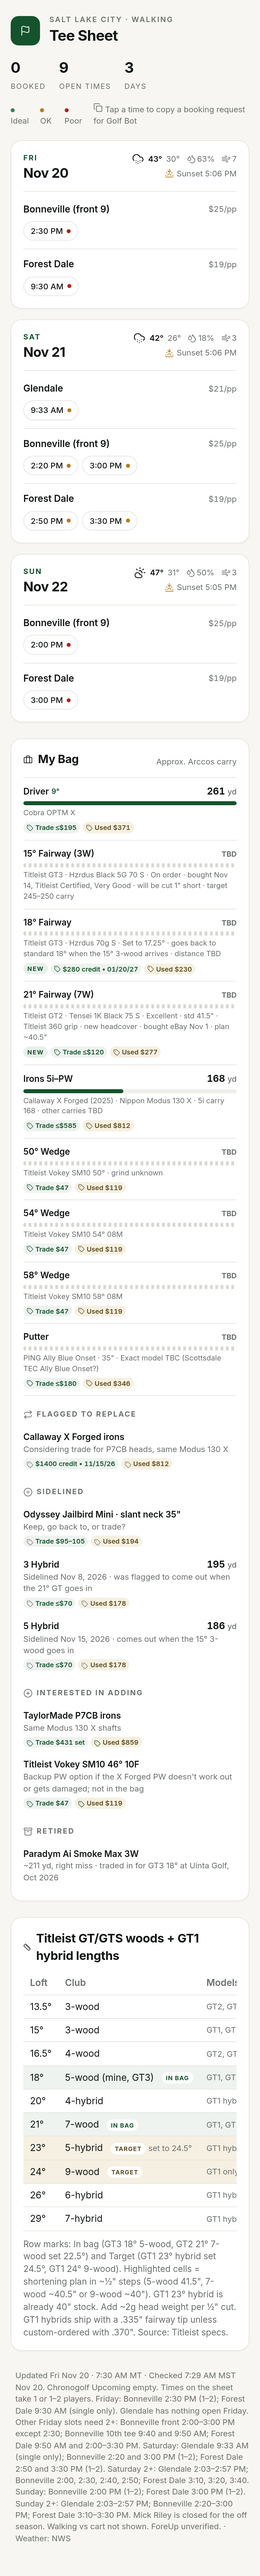
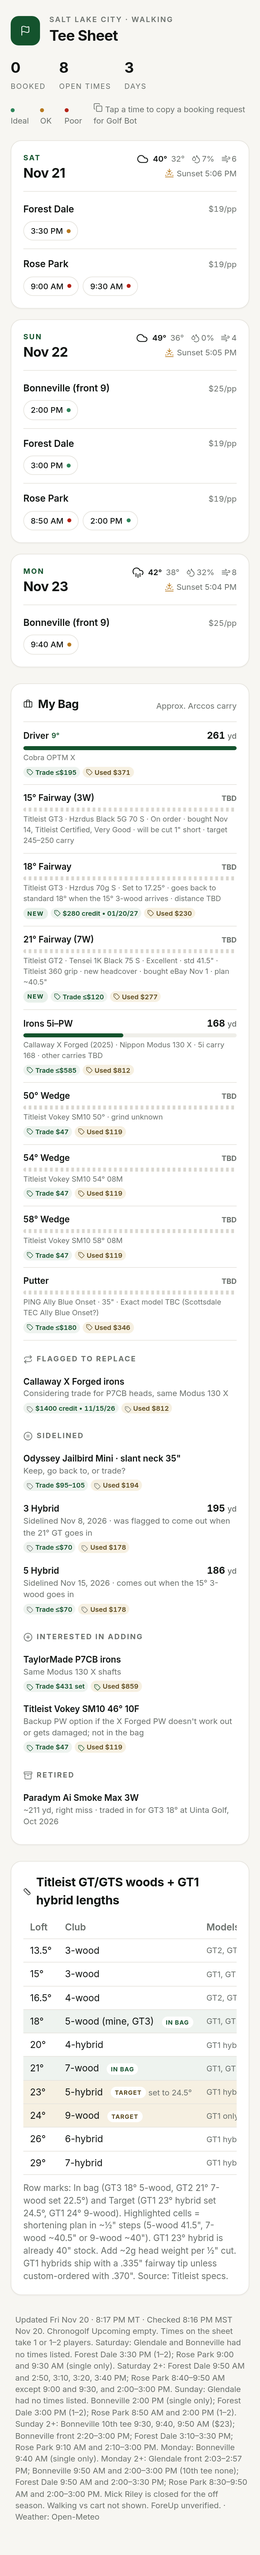
Update schedule 2026-11-20 20:17 MT

diff --git a/index.html b/index.html
@@ -47,10 +47,10 @@ ul{list-style:none;margin:0;padding:0}.ladder{border-top:1px solid var(--ln)}
 @media(max-width:560px){.wrap{padding:22px 16px 48px}h1{font-size:22px}.stats{gap:20px}.grid{grid-template-columns:1fr}}
 </style></head><body><div class="wrap">
 <div class="top"><div class="brand"><div class="logo"><i data-lucide="flag" class="ic "></i></div><div><div class="eyebrow">Salt Lake City · Walking</div><h1>Tee Sheet</h1></div></div>
-<div class="stats"><div class="stat"><b>0</b><span>Booked</span></div><div class="stat"><b>9</b><span>Open times</span></div><div class="stat"><b>3</b><span>Days</span></div></div></div>
+<div class="stats"><div class="stat"><b>0</b><span>Booked</span></div><div class="stat"><b>8</b><span>Open times</span></div><div class="stat"><b>3</b><span>Days</span></div></div></div>
 <div class="legend"><span><i class="dot ideal"></i>Ideal</span><span><i class="dot ok"></i>OK</span><span><i class="dot poor"></i>Poor</span><span><i data-lucide="copy" class="ic s"></i> Tap a time to copy a booking request for Golf Bot</span></div>
-<div class="layout"><div class="grid"><section class="card day"><header><div><div class="dow">Fri</div><div class="dt">Nov 20</div></div><div class="wxc"><div class="sum" title="🌨 Snow (7a–7p)"><i data-lucide="cloud-snow" class="ic "></i><span class="hi">43°</span><span class="lo">30°</span><span class="m"><i data-lucide="droplets" class="ic s"></i>63%</span><span class="m"><i data-lucide="wind" class="ic s"></i>7</span></div><div class="sun"><i data-lucide="sunset" class="ic s"></i>Sunset 5:06 PM</div></div></header><div class="crs"><div class="row"><span class="cn">Bonneville (front 9)</span><span class="pr">$25/pp</span></div><div class="tts"><button class="tt poor" data-msg="Book Bonneville (front 9) Fri Nov 20 2:30 PM" title="🌨 Snow · 43°F · 63% precip · 7 mph · tap to copy booking request" aria-label="Copy: Book Bonneville (front 9) Fri Nov 20 2:30 PM" onclick="cp(this)"><span>2:30 PM</span><i class="dot"></i></button></div></div><div class="crs"><div class="row"><span class="cn">Forest Dale</span><span class="pr">$19/pp</span></div><div class="tts"><button class="tt poor" data-msg="Book Forest Dale Fri Nov 20 9:30 AM" title="🌨 Snow · 43°F · 63% precip · 7 mph · tap to copy booking request" aria-label="Copy: Book Forest Dale Fri Nov 20 9:30 AM" onclick="cp(this)"><span>9:30 AM</span><i class="dot"></i></button></div></div></section><section class="card day"><header><div><div class="dow">Sat</div><div class="dt">Nov 21</div></div><div class="wxc"><div class="sum" title="🌨 Snow (7a–7p)"><i data-lucide="cloud-snow" class="ic "></i><span class="hi">42°</span><span class="lo">26°</span><span class="m"><i data-lucide="droplets" class="ic s"></i>18%</span><span class="m"><i data-lucide="wind" class="ic s"></i>3</span></div><div class="sun"><i data-lucide="sunset" class="ic s"></i>Sunset 5:06 PM</div></div></header><div class="crs"><div class="row"><span class="cn">Glendale</span><span class="pr">$21/pp</span></div><div class="tts"><button class="tt ok" data-msg="Book Glendale Sat Nov 21 9:33 AM" title="🌨 Snow · 42°F · 18% precip · 3 mph · tap to copy booking request" aria-label="Copy: Book Glendale Sat Nov 21 9:33 AM" onclick="cp(this)"><span>9:33 AM</span><i class="dot"></i></button></div></div><div class="crs"><div class="row"><span class="cn">Bonneville (front 9)</span><span class="pr">$25/pp</span></div><div class="tts"><button class="tt ok" data-msg="Book Bonneville (front 9) Sat Nov 21 2:20 PM" title="🌨 Snow · 42°F · 18% precip · 3 mph · tap to copy booking request" aria-label="Copy: Book Bonneville (front 9) Sat Nov 21 2:20 PM" onclick="cp(this)"><span>2:20 PM</span><i class="dot"></i></button><button class="tt ok" data-msg="Book Bonneville (front 9) Sat Nov 21 3:00 PM" title="🌨 Snow · 42°F · 18% precip · 3 mph · tap to copy booking request" aria-label="Copy: Book Bonneville (front 9) Sat Nov 21 3:00 PM" onclick="cp(this)"><span>3:00 PM</span><i class="dot"></i></button></div></div><div class="crs"><div class="row"><span class="cn">Forest Dale</span><span class="pr">$19/pp</span></div><div class="tts"><button class="tt ok" data-msg="Book Forest Dale Sat Nov 21 2:50 PM" title="🌨 Snow · 42°F · 18% precip · 3 mph · tap to copy booking request" aria-label="Copy: Book Forest Dale Sat Nov 21 2:50 PM" onclick="cp(this)"><span>2:50 PM</span><i class="dot"></i></button><button class="tt ok" data-msg="Book Forest Dale Sat Nov 21 3:30 PM" title="🌨 Snow · 42°F · 18% precip · 3 mph · tap to copy booking request" aria-label="Copy: Book Forest Dale Sat Nov 21 3:30 PM" onclick="cp(this)"><span>3:30 PM</span><i class="dot"></i></button></div></div></section><section class="card day"><header><div><div class="dow">Sun</div><div class="dt">Nov 22</div></div><div class="wxc"><div class="sum" title="⛅ Partly cloudy (7a–7p)"><i data-lucide="cloud-sun" class="ic "></i><span class="hi">47°</span><span class="lo">31°</span><span class="m"><i data-lucide="droplets" class="ic s"></i>50%</span><span class="m"><i data-lucide="wind" class="ic s"></i>3</span></div><div class="sun"><i data-lucide="sunset" class="ic s"></i>Sunset 5:05 PM</div></div></header><div class="crs"><div class="row"><span class="cn">Bonneville (front 9)</span><span class="pr">$25/pp</span></div><div class="tts"><button class="tt poor" data-msg="Book Bonneville (front 9) Sun Nov 22 2:00 PM" title="⛅ Partly cloudy · 47°F · 50% precip · 3 mph · tap to copy booking request" aria-label="Copy: Book Bonneville (front 9) Sun Nov 22 2:00 PM" onclick="cp(this)"><span>2:00 PM</span><i class="dot"></i></button></div></div><div class="crs"><div class="row"><span class="cn">Forest Dale</span><span class="pr">$19/pp</span></div><div class="tts"><button class="tt poor" data-msg="Book Forest Dale Sun Nov 22 3:00 PM" title="⛅ Partly cloudy · 47°F · 50% precip · 3 mph · tap to copy booking request" aria-label="Copy: Book Forest Dale Sun Nov 22 3:00 PM" onclick="cp(this)"><span>3:00 PM</span><i class="dot"></i></button></div></div></section></div><section class="card bag"><header><h2><i data-lucide="briefcase" class="ic s"></i>My Bag</h2><span class="muted">Approx. Arccos carry</span></header><ul class="ladder"><li class="lad"><div class="l1"><div class="cname">Driver <small>9°</small></div><div class="yd">261 <small>yd</small></div></div><div class="bar"><span style="width:100%"></span></div><div class="muted">Cobra OPTM X</div><div class=bdg><span class="val" title="On in Two trade-in (up-to ceiling) · Cobra OPTM X driver · 2026-11-16"><i data-lucide="tag" class="ic xs"></i>Trade ≤$195</span><span class="val used" title="2nd Swing used OPTM X Stiff: 9° Mint $379.99 (Kai&#x27;li White 60), 10.5° Above Average $362.99 · 2026-11-02"><i data-lucide="tag" class="ic xs"></i>Used $371</span></div></li><li class="lad"><div class="l1"><div class="cname">15° Fairway (3W)</div><div class="yd muted">TBD</div></div><div class="bar tbd"><span></span></div><div class="muted">Titleist GT3 · Hzrdus Black 5G 70 S · On order · bought Nov 14, Titleist Certified, Very Good · will be cut 1&quot; short · target 245–250 carry</div></li><li class="lad"><div class="l1"><div class="cname">18° Fairway</div><div class="yd muted">TBD</div></div><div class="bar tbd"><span></span></div><div class="muted">Titleist GT3 · Hzrdus 70g S · Set to 17.25° · goes back to standard 18° when the 15° 3-wood arrives · distance TBD</div><div class=bdg><span class="pill sm">New</span><span class="val" title="Uinta Golf 90-day guarantee, bought Oct 22, 2026 · 2026-10-22"><i data-lucide="tag" class="ic xs"></i>$280 credit • 01/20/27</span><span class="val used" title="Global Golf used GT3 fairway Excellent $229.99; eBay sold GT3 18° 5W median $231 (Teeworth, 90 days) · 2026-10-26"><i data-lucide="tag" class="ic xs"></i>Used $230</span></div></li><li class="lad"><div class="l1"><div class="cname">21° Fairway (7W)</div><div class="yd muted">TBD</div></div><div class="bar tbd"><span></span></div><div class="muted">Titleist GT2 · Tensei 1K Black 75 S · Excellent · std 41.5&quot; · Titleist 360 grip · new headcover · bought eBay Nov 1 · plan ~40.5&quot;</div><div class=bdg><span class="pill sm">New</span><span class="val" title="On in Two trade-in (up-to ceiling, excellent) · Titleist GT2 fairway · 2026-11-16"><i data-lucide="tag" class="ic xs"></i>Trade ≤$120</span><span class="val used" title="Avg of Global Golf GT2 Very Good $264.99 and Next Round GT2 Excellent $289.99; eBay sold median $200 (45 sales, Face Value Golf) · 2026-10-26"><i data-lucide="tag" class="ic xs"></i>Used $277</span></div></li><li class="lad"><div class="l1"><div class="cname">Irons 5i–PW</div><div class="yd">168 <small>yd</small></div></div><div class="bar"><span style="width:47%"></span></div><div class="muted">Callaway X Forged (2025) · Nippon Modus 130 X · 5i carry 168 · other carries TBD</div><div class=bdg><span class="val" title="On in Two trade-in (up-to ceiling) · Callaway 2025 X Forged iron set; set composition/shaft not specified, so 5i–PW offer may differ · 2026-11-16"><i data-lucide="tag" class="ic xs"></i>Trade ≤$585</span><span class="val used" title="FairwayWire eBay sold avg, X Forged 2025 set (18 sales, mostly 4-PW, mixed shafts); Excellent/Very Good sales $986–$1,200 · 2026-10-26"><i data-lucide="tag" class="ic xs"></i>Used $812</span></div></li><li class="lad"><div class="l1"><div class="cname">50° Wedge</div><div class="yd muted">TBD</div></div><div class="bar tbd"><span></span></div><div class="muted">Titleist Vokey SM10 50° · grind unknown</div><div class=bdg><span class="val" title="2nd Swing store credit via Face Value Golf (SM10 family, avg cond., checked Nov 14); best cash $45–47 · 2026-11-16"><i data-lucide="tag" class="ic xs"></i>Trade $47</span><span class="val used" title="Titleist Certified Pre-Owned SM10 Excellent $119 · 2026-10-26"><i data-lucide="tag" class="ic xs"></i>Used $119</span></div></li><li class="lad"><div class="l1"><div class="cname">54° Wedge</div><div class="yd muted">TBD</div></div><div class="bar tbd"><span></span></div><div class="muted">Titleist Vokey SM10 54° 08M</div><div class=bdg><span class="val" title="2nd Swing store credit via Face Value Golf (SM10 family, avg cond., checked Nov 14); best cash $45–47 · 2026-11-16"><i data-lucide="tag" class="ic xs"></i>Trade $47</span><span class="val used" title="Titleist Certified Pre-Owned SM10 Excellent $119 · 2026-10-26"><i data-lucide="tag" class="ic xs"></i>Used $119</span></div></li><li class="lad"><div class="l1"><div class="cname">58° Wedge</div><div class="yd muted">TBD</div></div><div class="bar tbd"><span></span></div><div class="muted">Titleist Vokey SM10 58° 08M</div><div class=bdg><span class="val" title="2nd Swing store credit via Face Value Golf (SM10 family, avg cond., checked Nov 14); best cash $45–47 · 2026-11-16"><i data-lucide="tag" class="ic xs"></i>Trade $47</span><span class="val used" title="Titleist Certified Pre-Owned SM10 Excellent $119 · 2026-10-26"><i data-lucide="tag" class="ic xs"></i>Used $119</span></div></li><li class="lad"><div class="l1"><div class="cname">Putter</div><div class="yd muted">TBD</div></div><div class="bar tbd"><span></span></div><div class="muted">PING Ally Blue Onset · 35&quot; · Exact model TBC (Scottsdale TEC Ally Blue Onset?)</div><div class=bdg><span class="val" title="On in Two trade-in (up-to ceiling) · Scottsdale TEC Ally Blue Onset; PLD SE Ally Blue 4 Onset $185 · 2026-11-16"><i data-lucide="tag" class="ic xs"></i>Trade ≤$180</span><span class="val used" title="ClubChecks used target, Scottsdale TEC Ally Blue Onset; Carl&#x27;s Golfland 35&quot; Very Good $349.99 · 2026-10-26"><i data-lucide="tag" class="ic xs"></i>Used $346</span></div></li></ul><div class="subs"><div class="sub"><h3><i data-lucide="repeat" class="ic s"></i>Flagged to replace</h3><ul class="lst replace"><li><div class="it"><div class="l1"><div class="cname">Callaway X Forged irons</div></div><div class="muted">Considering trade for P7CB heads, same Modus 130 X</div><div class=bdg><span class="val" title="Jason: trade-in guarantee value, trade by Nov 15, 2026 (deadline approx., per Jason) · 2026-10-26"><i data-lucide="tag" class="ic xs"></i>$1400 credit • 11/15/26</span><span class="val used" title="FairwayWire eBay sold avg, X Forged 2025 set (18 sales, mostly 4-PW, mixed shafts); Excellent/Very Good sales $986–$1,200 · 2026-10-26"><i data-lucide="tag" class="ic xs"></i>Used $812</span></div></div></li></ul></div><div class="sub"><h3><i data-lucide="pause-circle" class="ic s"></i>Sidelined</h3><ul class="lst sidelined"><li><div class="it"><div class="l1"><div class="cname">Odyssey Jailbird Mini · slant neck 35&quot;</div></div><div class="muted">Keep, go back to, or trade?</div><div class=bdg><span class="val" title="On in Two trade-in ceilings: Ai-ONE Jailbird Mini S $95 – Ai-DUAL Jailbird Mini $105 (exact version TBC) · 2026-11-16"><i data-lucide="tag" class="ic xs"></i>Trade $95–105</span><span class="val used" title="Golf Club Index avg sold, Odyssey Ai-ONE Jailbird Mini (exact version TBC) · 2026-10-26"><i data-lucide="tag" class="ic xs"></i>Used $194</span></div></div></li><li><div class="it"><div class="l1"><div class="cname">3 Hybrid</div><div class=yd>195 <small>yd</small></div></div><div class="muted">Sidelined Nov 8, 2026 · was flagged to come out when the 21° GT goes in</div><div class=bdg><span class="val" title="On in Two trade-in (up-to ceiling) · 2026-11-16"><i data-lucide="tag" class="ic xs"></i>Trade ≤$70</span><span class="val used" title="Face Value Golf typical used asking, Paradym Super hybrid Above Average grade (Callaway Pre-Owned from $120 Avg) · 2026-10-26"><i data-lucide="tag" class="ic xs"></i>Used $178</span></div></div></li><li><div class="it"><div class="l1"><div class="cname">5 Hybrid</div><div class=yd>186 <small>yd</small></div></div><div class="muted">Sidelined Nov 15, 2026 · comes out when the 15° 3-wood goes in</div><div class=bdg><span class="val" title="On in Two trade-in (up-to ceiling) · 2026-11-16"><i data-lucide="tag" class="ic xs"></i>Trade ≤$70</span><span class="val used" title="Face Value Golf typical used asking, Paradym Super hybrid Above Average grade (Callaway Pre-Owned from $120 Avg) · 2026-10-26"><i data-lucide="tag" class="ic xs"></i>Used $178</span></div></div></li></ul></div><div class="sub"><h3><i data-lucide="plus-circle" class="ic s"></i>Interested in adding</h3><ul class="lst add"><li><div class="it"><div class="l1"><div class="cname">TaylorMade P7CB irons</div></div><div class="muted">Same Modus 130 X shafts</div><div class=bdg><span class="val" title="Face Value Golf: best cash offer, iGolf Value Guide, 7-club set, Average ($61.50/club), checked Oct 11 · 2026-10-26"><i data-lucide="tag" class="ic xs"></i>Trade $431 set</span><span class="val used" title="Face Value Golf typical used asking, 7-club set, median of 44 listings (Average or better), checked Oct 11; Global Golf Average 4-PW $760 · 2026-10-26"><i data-lucide="tag" class="ic xs"></i>Used $859</span></div></div></li><li><div class="it"><div class="l1"><div class="cname">Titleist Vokey SM10 46° 10F</div></div><div class="muted">Backup PW option if the X Forged PW doesn&#x27;t work out or gets damaged; not in the bag</div><div class=bdg><span class="val" title="2nd Swing store credit via Face Value Golf (SM10 family, avg cond.) · 2026-10-23"><i data-lucide="tag" class="ic xs"></i>Trade $47</span><span class="val used" title="Titleist Certified Pre-Owned SM10 Excellent $119 · 2026-10-26"><i data-lucide="tag" class="ic xs"></i>Used $119</span></div></div></li></ul></div><div class="sub"><h3><i data-lucide="archive" class="ic s"></i>Retired</h3><ul class="lst retired"><li><div class="it"><div class="l1"><div class="cname">Paradym Ai Smoke Max 3W</div></div><div class="muted">~211 yd, right miss · traded in for GT3 18° at Uinta Golf, Oct 2026</div></div></li></ul></div></div></section></div><section class="card lenchart"><header><h2><i data-lucide="ruler" class="ic s"></i>Titleist GT/GTS woods + GT1 hybrid lengths</h2></header><div class="tw"><table><thead><tr><th>Loft</th><th>Club</th><th>Models</th><th>Std</th><th>−½"</th><th>−1"</th></tr></thead><tbody><tr><td>13.5°</td><td>3-wood</td><td class="muted">GT2, GTS2</td><td>43"</td><td>42.5"</td><td>42"</td></tr><tr><td>15°</td><td>3-wood</td><td class="muted">GT1, GT2, GT3, GTS</td><td>43"</td><td>42.5"</td><td>42"</td></tr><tr><td>16.5°</td><td>4-wood</td><td class="muted">GT2, GT3, GTS</td><td>43"</td><td>42.5"</td><td>42"</td></tr><tr class="inbag"><td>18°</td><td>5-wood (mine, GT3) <span class="mtag">In bag</span></td><td class="muted">GT1, GT2, GT3, GTS</td><td>42"</td><td class=hl>41.5"</td><td>41"</td></tr><tr><td>20°</td><td>4-hybrid</td><td class="muted">GT1 hybrid</td><td>40.5"</td><td>40"</td><td>39.5"</td></tr><tr class="inbag"><td>21°</td><td>7-wood <span class="mtag">In bag</span></td><td class="muted">GT1, GT2, GTS</td><td>41.5"</td><td>41"</td><td class=hl>40.5"</td></tr><tr class="target"><td>23°</td><td>5-hybrid <span class="mtag">Target</span> <span class="muted">set to 24.5°</span></td><td class="muted">GT1 hybrid</td><td>40"</td><td>39.5"</td><td>39"</td></tr><tr class="target"><td>24°</td><td>9-wood <span class="mtag">Target</span></td><td class="muted">GT1 only</td><td>41"</td><td>40.5"</td><td class=hl>40"</td></tr><tr><td>26°</td><td>6-hybrid</td><td class="muted">GT1 hybrid</td><td>39.5"</td><td>39"</td><td>38.5"</td></tr><tr><td>29°</td><td>7-hybrid</td><td class="muted">GT1 hybrid</td><td>39"</td><td>38.5"</td><td>38"</td></tr></tbody></table></div><p class="muted">Row marks: In bag (GT3 18° 5-wood, GT2 21° 7-wood set 22.5°) and Target (GT1 23° hybrid set 24.5°, GT1 24° 9-wood). Highlighted cells = shortening plan in ~½" steps (5-wood 41.5", 7-wood ~40.5" or 9-wood ~40"). GT1 23° hybrid is already 40" stock. Add ~2g head weight per ½" cut. GT1 hybrids ship with a .335" fairway tip unless custom-ordered with .370". Source: Titleist specs.</p></section>
-<div class="foot"><i data-lucide="refresh-cw" class="ic s"></i>Updated Fri Nov 20 · 7:30 AM MT · Checked 7:29 AM MST Nov 20. Chronogolf Upcoming empty. Times on the sheet take 1 or 1–2 players. Friday: Bonneville 2:30 PM (1–2); Forest Dale 9:30 AM (single only). Glendale has nothing open Friday. Other Friday slots need 2+: Bonneville front 2:00–3:00 PM except 2:30; Bonneville 10th tee 9:40 and 9:50 AM; Forest Dale 9:50 AM and 2:00–3:30 PM. Saturday: Glendale 9:33 AM (single only); Bonneville 2:20 and 3:00 PM (1–2); Forest Dale 2:50 and 3:30 PM (1–2). Saturday 2+: Glendale 2:03–2:57 PM; Bonneville 2:00, 2:30, 2:40, 2:50; Forest Dale 3:10, 3:20, 3:40. Sunday: Bonneville 2:00 PM (1–2); Forest Dale 3:00 PM (1–2). Sunday 2+: Glendale 2:03–2:57 PM; Bonneville 2:20–3:00 PM; Forest Dale 3:10–3:30 PM. Mick Riley is closed for the off season. Walking vs cart not shown. ForeUp unverified. · Weather: NWS</div></div>
+<div class="layout"><div class="grid"><section class="card day"><header><div><div class="dow">Sat</div><div class="dt">Nov 21</div></div><div class="wxc"><div class="sum" title="☁ Overcast (7a–7p)"><i data-lucide="cloud" class="ic "></i><span class="hi">40°</span><span class="lo">32°</span><span class="m"><i data-lucide="droplets" class="ic s"></i>7%</span><span class="m"><i data-lucide="wind" class="ic s"></i>6</span></div><div class="sun"><i data-lucide="sunset" class="ic s"></i>Sunset 5:06 PM</div></div></header><div class="crs"><div class="row"><span class="cn">Forest Dale</span><span class="pr">$19/pp</span></div><div class="tts"><button class="tt ok" data-msg="Book Forest Dale Sat Nov 21 3:30 PM" title="☁ Overcast · 40°F · 1% precip · 3 mph · tap to copy booking request" aria-label="Copy: Book Forest Dale Sat Nov 21 3:30 PM" onclick="cp(this)"><span>3:30 PM</span><i class="dot"></i></button></div></div><div class="crs"><div class="row"><span class="cn">Rose Park</span><span class="pr">$19/pp</span></div><div class="tts"><button class="tt poor" data-msg="Book Rose Park Sat Nov 21 9:00 AM" title="☁ Overcast · 35°F · 4% precip · 4 mph · tap to copy booking request" aria-label="Copy: Book Rose Park Sat Nov 21 9:00 AM" onclick="cp(this)"><span>9:00 AM</span><i class="dot"></i></button><button class="tt poor" data-msg="Book Rose Park Sat Nov 21 9:30 AM" title="☁ Overcast · 35°F · 4% precip · 4 mph · tap to copy booking request" aria-label="Copy: Book Rose Park Sat Nov 21 9:30 AM" onclick="cp(this)"><span>9:30 AM</span><i class="dot"></i></button></div></div></section><section class="card day"><header><div><div class="dow">Sun</div><div class="dt">Nov 22</div></div><div class="wxc"><div class="sum" title="☁ Overcast (7a–7p)"><i data-lucide="cloud" class="ic "></i><span class="hi">49°</span><span class="lo">36°</span><span class="m"><i data-lucide="droplets" class="ic s"></i>0%</span><span class="m"><i data-lucide="wind" class="ic s"></i>4</span></div><div class="sun"><i data-lucide="sunset" class="ic s"></i>Sunset 5:05 PM</div></div></header><div class="crs"><div class="row"><span class="cn">Bonneville (front 9)</span><span class="pr">$25/pp</span></div><div class="tts"><button class="tt ideal" data-msg="Book Bonneville (front 9) Sun Nov 22 2:00 PM" title="☁ Overcast · 49°F · 0% precip · 4 mph · tap to copy booking request" aria-label="Copy: Book Bonneville (front 9) Sun Nov 22 2:00 PM" onclick="cp(this)"><span>2:00 PM</span><i class="dot"></i></button></div></div><div class="crs"><div class="row"><span class="cn">Forest Dale</span><span class="pr">$19/pp</span></div><div class="tts"><button class="tt ideal" data-msg="Book Forest Dale Sun Nov 22 3:00 PM" title="☁ Overcast · 48°F · 0% precip · 4 mph · tap to copy booking request" aria-label="Copy: Book Forest Dale Sun Nov 22 3:00 PM" onclick="cp(this)"><span>3:00 PM</span><i class="dot"></i></button></div></div><div class="crs"><div class="row"><span class="cn">Rose Park</span><span class="pr">$19/pp</span></div><div class="tts"><button class="tt poor" data-msg="Book Rose Park Sun Nov 22 8:50 AM" title="☁ Overcast · 36°F · 0% precip · 3 mph · tap to copy booking request" aria-label="Copy: Book Rose Park Sun Nov 22 8:50 AM" onclick="cp(this)"><span>8:50 AM</span><i class="dot"></i></button><button class="tt ideal" data-msg="Book Rose Park Sun Nov 22 2:00 PM" title="☁ Overcast · 49°F · 0% precip · 4 mph · tap to copy booking request" aria-label="Copy: Book Rose Park Sun Nov 22 2:00 PM" onclick="cp(this)"><span>2:00 PM</span><i class="dot"></i></button></div></div></section><section class="card day"><header><div><div class="dow">Mon</div><div class="dt">Nov 23</div></div><div class="wxc"><div class="sum" title="🌦 Drizzle (7a–7p)"><i data-lucide="cloud-rain" class="ic "></i><span class="hi">42°</span><span class="lo">38°</span><span class="m"><i data-lucide="droplets" class="ic s"></i>32%</span><span class="m"><i data-lucide="wind" class="ic s"></i>8</span></div><div class="sun"><i data-lucide="sunset" class="ic s"></i>Sunset 5:04 PM</div></div></header><div class="crs"><div class="row"><span class="cn">Bonneville (front 9)</span><span class="pr">$25/pp</span></div><div class="tts"><button class="tt ok" data-msg="Book Bonneville (front 9) Mon Nov 23 9:40 AM" title="🌦 Drizzle · 38°F · 16% precip · 4 mph · tap to copy booking request" aria-label="Copy: Book Bonneville (front 9) Mon Nov 23 9:40 AM" onclick="cp(this)"><span>9:40 AM</span><i class="dot"></i></button></div></div></section></div><section class="card bag"><header><h2><i data-lucide="briefcase" class="ic s"></i>My Bag</h2><span class="muted">Approx. Arccos carry</span></header><ul class="ladder"><li class="lad"><div class="l1"><div class="cname">Driver <small>9°</small></div><div class="yd">261 <small>yd</small></div></div><div class="bar"><span style="width:100%"></span></div><div class="muted">Cobra OPTM X</div><div class=bdg><span class="val" title="On in Two trade-in (up-to ceiling) · Cobra OPTM X driver · 2026-11-16"><i data-lucide="tag" class="ic xs"></i>Trade ≤$195</span><span class="val used" title="2nd Swing used OPTM X Stiff: 9° Mint $379.99 (Kai&#x27;li White 60), 10.5° Above Average $362.99 · 2026-11-02"><i data-lucide="tag" class="ic xs"></i>Used $371</span></div></li><li class="lad"><div class="l1"><div class="cname">15° Fairway (3W)</div><div class="yd muted">TBD</div></div><div class="bar tbd"><span></span></div><div class="muted">Titleist GT3 · Hzrdus Black 5G 70 S · On order · bought Nov 14, Titleist Certified, Very Good · will be cut 1&quot; short · target 245–250 carry</div></li><li class="lad"><div class="l1"><div class="cname">18° Fairway</div><div class="yd muted">TBD</div></div><div class="bar tbd"><span></span></div><div class="muted">Titleist GT3 · Hzrdus 70g S · Set to 17.25° · goes back to standard 18° when the 15° 3-wood arrives · distance TBD</div><div class=bdg><span class="pill sm">New</span><span class="val" title="Uinta Golf 90-day guarantee, bought Oct 22, 2026 · 2026-10-22"><i data-lucide="tag" class="ic xs"></i>$280 credit • 01/20/27</span><span class="val used" title="Global Golf used GT3 fairway Excellent $229.99; eBay sold GT3 18° 5W median $231 (Teeworth, 90 days) · 2026-10-26"><i data-lucide="tag" class="ic xs"></i>Used $230</span></div></li><li class="lad"><div class="l1"><div class="cname">21° Fairway (7W)</div><div class="yd muted">TBD</div></div><div class="bar tbd"><span></span></div><div class="muted">Titleist GT2 · Tensei 1K Black 75 S · Excellent · std 41.5&quot; · Titleist 360 grip · new headcover · bought eBay Nov 1 · plan ~40.5&quot;</div><div class=bdg><span class="pill sm">New</span><span class="val" title="On in Two trade-in (up-to ceiling, excellent) · Titleist GT2 fairway · 2026-11-16"><i data-lucide="tag" class="ic xs"></i>Trade ≤$120</span><span class="val used" title="Avg of Global Golf GT2 Very Good $264.99 and Next Round GT2 Excellent $289.99; eBay sold median $200 (45 sales, Face Value Golf) · 2026-10-26"><i data-lucide="tag" class="ic xs"></i>Used $277</span></div></li><li class="lad"><div class="l1"><div class="cname">Irons 5i–PW</div><div class="yd">168 <small>yd</small></div></div><div class="bar"><span style="width:47%"></span></div><div class="muted">Callaway X Forged (2025) · Nippon Modus 130 X · 5i carry 168 · other carries TBD</div><div class=bdg><span class="val" title="On in Two trade-in (up-to ceiling) · Callaway 2025 X Forged iron set; set composition/shaft not specified, so 5i–PW offer may differ · 2026-11-16"><i data-lucide="tag" class="ic xs"></i>Trade ≤$585</span><span class="val used" title="FairwayWire eBay sold avg, X Forged 2025 set (18 sales, mostly 4-PW, mixed shafts); Excellent/Very Good sales $986–$1,200 · 2026-10-26"><i data-lucide="tag" class="ic xs"></i>Used $812</span></div></li><li class="lad"><div class="l1"><div class="cname">50° Wedge</div><div class="yd muted">TBD</div></div><div class="bar tbd"><span></span></div><div class="muted">Titleist Vokey SM10 50° · grind unknown</div><div class=bdg><span class="val" title="2nd Swing store credit via Face Value Golf (SM10 family, avg cond., checked Nov 14); best cash $45–47 · 2026-11-16"><i data-lucide="tag" class="ic xs"></i>Trade $47</span><span class="val used" title="Titleist Certified Pre-Owned SM10 Excellent $119 · 2026-10-26"><i data-lucide="tag" class="ic xs"></i>Used $119</span></div></li><li class="lad"><div class="l1"><div class="cname">54° Wedge</div><div class="yd muted">TBD</div></div><div class="bar tbd"><span></span></div><div class="muted">Titleist Vokey SM10 54° 08M</div><div class=bdg><span class="val" title="2nd Swing store credit via Face Value Golf (SM10 family, avg cond., checked Nov 14); best cash $45–47 · 2026-11-16"><i data-lucide="tag" class="ic xs"></i>Trade $47</span><span class="val used" title="Titleist Certified Pre-Owned SM10 Excellent $119 · 2026-10-26"><i data-lucide="tag" class="ic xs"></i>Used $119</span></div></li><li class="lad"><div class="l1"><div class="cname">58° Wedge</div><div class="yd muted">TBD</div></div><div class="bar tbd"><span></span></div><div class="muted">Titleist Vokey SM10 58° 08M</div><div class=bdg><span class="val" title="2nd Swing store credit via Face Value Golf (SM10 family, avg cond., checked Nov 14); best cash $45–47 · 2026-11-16"><i data-lucide="tag" class="ic xs"></i>Trade $47</span><span class="val used" title="Titleist Certified Pre-Owned SM10 Excellent $119 · 2026-10-26"><i data-lucide="tag" class="ic xs"></i>Used $119</span></div></li><li class="lad"><div class="l1"><div class="cname">Putter</div><div class="yd muted">TBD</div></div><div class="bar tbd"><span></span></div><div class="muted">PING Ally Blue Onset · 35&quot; · Exact model TBC (Scottsdale TEC Ally Blue Onset?)</div><div class=bdg><span class="val" title="On in Two trade-in (up-to ceiling) · Scottsdale TEC Ally Blue Onset; PLD SE Ally Blue 4 Onset $185 · 2026-11-16"><i data-lucide="tag" class="ic xs"></i>Trade ≤$180</span><span class="val used" title="ClubChecks used target, Scottsdale TEC Ally Blue Onset; Carl&#x27;s Golfland 35&quot; Very Good $349.99 · 2026-10-26"><i data-lucide="tag" class="ic xs"></i>Used $346</span></div></li></ul><div class="subs"><div class="sub"><h3><i data-lucide="repeat" class="ic s"></i>Flagged to replace</h3><ul class="lst replace"><li><div class="it"><div class="l1"><div class="cname">Callaway X Forged irons</div></div><div class="muted">Considering trade for P7CB heads, same Modus 130 X</div><div class=bdg><span class="val" title="Jason: trade-in guarantee value, trade by Nov 15, 2026 (deadline approx., per Jason) · 2026-10-26"><i data-lucide="tag" class="ic xs"></i>$1400 credit • 11/15/26</span><span class="val used" title="FairwayWire eBay sold avg, X Forged 2025 set (18 sales, mostly 4-PW, mixed shafts); Excellent/Very Good sales $986–$1,200 · 2026-10-26"><i data-lucide="tag" class="ic xs"></i>Used $812</span></div></div></li></ul></div><div class="sub"><h3><i data-lucide="pause-circle" class="ic s"></i>Sidelined</h3><ul class="lst sidelined"><li><div class="it"><div class="l1"><div class="cname">Odyssey Jailbird Mini · slant neck 35&quot;</div></div><div class="muted">Keep, go back to, or trade?</div><div class=bdg><span class="val" title="On in Two trade-in ceilings: Ai-ONE Jailbird Mini S $95 – Ai-DUAL Jailbird Mini $105 (exact version TBC) · 2026-11-16"><i data-lucide="tag" class="ic xs"></i>Trade $95–105</span><span class="val used" title="Golf Club Index avg sold, Odyssey Ai-ONE Jailbird Mini (exact version TBC) · 2026-10-26"><i data-lucide="tag" class="ic xs"></i>Used $194</span></div></div></li><li><div class="it"><div class="l1"><div class="cname">3 Hybrid</div><div class=yd>195 <small>yd</small></div></div><div class="muted">Sidelined Nov 8, 2026 · was flagged to come out when the 21° GT goes in</div><div class=bdg><span class="val" title="On in Two trade-in (up-to ceiling) · 2026-11-16"><i data-lucide="tag" class="ic xs"></i>Trade ≤$70</span><span class="val used" title="Face Value Golf typical used asking, Paradym Super hybrid Above Average grade (Callaway Pre-Owned from $120 Avg) · 2026-10-26"><i data-lucide="tag" class="ic xs"></i>Used $178</span></div></div></li><li><div class="it"><div class="l1"><div class="cname">5 Hybrid</div><div class=yd>186 <small>yd</small></div></div><div class="muted">Sidelined Nov 15, 2026 · comes out when the 15° 3-wood goes in</div><div class=bdg><span class="val" title="On in Two trade-in (up-to ceiling) · 2026-11-16"><i data-lucide="tag" class="ic xs"></i>Trade ≤$70</span><span class="val used" title="Face Value Golf typical used asking, Paradym Super hybrid Above Average grade (Callaway Pre-Owned from $120 Avg) · 2026-10-26"><i data-lucide="tag" class="ic xs"></i>Used $178</span></div></div></li></ul></div><div class="sub"><h3><i data-lucide="plus-circle" class="ic s"></i>Interested in adding</h3><ul class="lst add"><li><div class="it"><div class="l1"><div class="cname">TaylorMade P7CB irons</div></div><div class="muted">Same Modus 130 X shafts</div><div class=bdg><span class="val" title="Face Value Golf: best cash offer, iGolf Value Guide, 7-club set, Average ($61.50/club), checked Oct 11 · 2026-10-26"><i data-lucide="tag" class="ic xs"></i>Trade $431 set</span><span class="val used" title="Face Value Golf typical used asking, 7-club set, median of 44 listings (Average or better), checked Oct 11; Global Golf Average 4-PW $760 · 2026-10-26"><i data-lucide="tag" class="ic xs"></i>Used $859</span></div></div></li><li><div class="it"><div class="l1"><div class="cname">Titleist Vokey SM10 46° 10F</div></div><div class="muted">Backup PW option if the X Forged PW doesn&#x27;t work out or gets damaged; not in the bag</div><div class=bdg><span class="val" title="2nd Swing store credit via Face Value Golf (SM10 family, avg cond.) · 2026-10-23"><i data-lucide="tag" class="ic xs"></i>Trade $47</span><span class="val used" title="Titleist Certified Pre-Owned SM10 Excellent $119 · 2026-10-26"><i data-lucide="tag" class="ic xs"></i>Used $119</span></div></div></li></ul></div><div class="sub"><h3><i data-lucide="archive" class="ic s"></i>Retired</h3><ul class="lst retired"><li><div class="it"><div class="l1"><div class="cname">Paradym Ai Smoke Max 3W</div></div><div class="muted">~211 yd, right miss · traded in for GT3 18° at Uinta Golf, Oct 2026</div></div></li></ul></div></div></section></div><section class="card lenchart"><header><h2><i data-lucide="ruler" class="ic s"></i>Titleist GT/GTS woods + GT1 hybrid lengths</h2></header><div class="tw"><table><thead><tr><th>Loft</th><th>Club</th><th>Models</th><th>Std</th><th>−½"</th><th>−1"</th></tr></thead><tbody><tr><td>13.5°</td><td>3-wood</td><td class="muted">GT2, GTS2</td><td>43"</td><td>42.5"</td><td>42"</td></tr><tr><td>15°</td><td>3-wood</td><td class="muted">GT1, GT2, GT3, GTS</td><td>43"</td><td>42.5"</td><td>42"</td></tr><tr><td>16.5°</td><td>4-wood</td><td class="muted">GT2, GT3, GTS</td><td>43"</td><td>42.5"</td><td>42"</td></tr><tr class="inbag"><td>18°</td><td>5-wood (mine, GT3) <span class="mtag">In bag</span></td><td class="muted">GT1, GT2, GT3, GTS</td><td>42"</td><td class=hl>41.5"</td><td>41"</td></tr><tr><td>20°</td><td>4-hybrid</td><td class="muted">GT1 hybrid</td><td>40.5"</td><td>40"</td><td>39.5"</td></tr><tr class="inbag"><td>21°</td><td>7-wood <span class="mtag">In bag</span></td><td class="muted">GT1, GT2, GTS</td><td>41.5"</td><td>41"</td><td class=hl>40.5"</td></tr><tr class="target"><td>23°</td><td>5-hybrid <span class="mtag">Target</span> <span class="muted">set to 24.5°</span></td><td class="muted">GT1 hybrid</td><td>40"</td><td>39.5"</td><td>39"</td></tr><tr class="target"><td>24°</td><td>9-wood <span class="mtag">Target</span></td><td class="muted">GT1 only</td><td>41"</td><td>40.5"</td><td class=hl>40"</td></tr><tr><td>26°</td><td>6-hybrid</td><td class="muted">GT1 hybrid</td><td>39.5"</td><td>39"</td><td>38.5"</td></tr><tr><td>29°</td><td>7-hybrid</td><td class="muted">GT1 hybrid</td><td>39"</td><td>38.5"</td><td>38"</td></tr></tbody></table></div><p class="muted">Row marks: In bag (GT3 18° 5-wood, GT2 21° 7-wood set 22.5°) and Target (GT1 23° hybrid set 24.5°, GT1 24° 9-wood). Highlighted cells = shortening plan in ~½" steps (5-wood 41.5", 7-wood ~40.5" or 9-wood ~40"). GT1 23° hybrid is already 40" stock. Add ~2g head weight per ½" cut. GT1 hybrids ship with a .335" fairway tip unless custom-ordered with .370". Source: Titleist specs.</p></section>
+<div class="foot"><i data-lucide="refresh-cw" class="ic s"></i>Updated Fri Nov 20 · 8:17 PM MT · Checked 8:16 PM MST Nov 20. Chronogolf Upcoming empty. Times on the sheet take 1 or 1–2 players. Saturday: Glendale and Bonneville had no times listed. Forest Dale 3:30 PM (1–2); Rose Park 9:00 and 9:30 AM (single only). Saturday 2+: Forest Dale 9:50 AM and 2:50, 3:10, 3:20, 3:40 PM; Rose Park 8:40–9:50 AM except 9:00 and 9:30, and 2:00–3:00 PM. Sunday: Glendale had no times listed. Bonneville 2:00 PM (single only); Forest Dale 3:00 PM (1–2); Rose Park 8:50 AM and 2:00 PM (1–2). Sunday 2+: Bonneville 10th tee 9:30, 9:40, 9:50 AM ($23); Bonneville front 2:20–3:00 PM; Forest Dale 3:10–3:30 PM; Rose Park 9:10 AM and 2:10–3:00 PM. Monday: Bonneville 9:40 AM (single only). Monday 2+: Glendale front 2:03–2:57 PM; Bonneville 9:50 AM and 2:00–3:00 PM (10th tee none); Forest Dale 9:50 AM and 2:00–3:30 PM; Rose Park 8:30–9:50 AM and 2:00–3:00 PM. Mick Riley is closed for the off season. Walking vs cart not shown. ForeUp unverified. · Weather: Open-Meteo</div></div>
 <div class="toast" id="toast" role="status"><i data-lucide="check" class="ic s"></i><span>Copied — paste in Golf Bot chat</span></div>
 <script>
 function cp(b){navigator.clipboard&&navigator.clipboard.writeText(b.dataset.msg);b.classList.add('copied');const t=document.getElementById('toast');t.classList.add('on');setTimeout(()=>{b.classList.remove('copied');t.classList.remove('on')},1600)}
